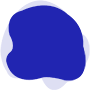
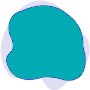
Edits for style

diff --git a/index.html b/index.html
@@ -44,7 +44,7 @@
 
 
         <!-- Navbar & Hero Start -->
-        <div class="container-xxl position-relative p-0">
+        <div class="container-xxl position-relative p-0 bg-green">
             <nav class="navbar navbar-expand-lg navbar-light px-4 px-lg-5 py-3 py-lg-0">
                 <a href="" class="navbar-brand p-0">
                     <h1 class="m-0">Best Sources IT</h1>
@@ -116,12 +116,12 @@
                         <p class="mb-4">Because your website is unique, we take the time to learn about the objectives you want to achieve. We research your needs, brand, and corporate identity before deciding on the best strategy for online success.</p>
                         <div class="row g-3">
                             <div class="col-sm-6">
-                                <h6 class="mb-3"><i class="fa text-white fa-check me-2"></i>Customer Focused</h6>
-                                <h6 class="mb-0"><i class="fa text-white fa-check me-2"></i>Professional Staff</h6>
+                                <h6 class="mb-3"><i class="fa green fa-check me-2"></i>Customer Focused</h6>
+                                <h6 class="mb-0"><i class="fa green fa-check me-2"></i>Professional Staff</h6>
                             </div>
                             <div class="col-sm-6">
-                                <h6 class="mb-3"><i class="fa fa-check text-white me-2"></i>24/7 Support</h6>
-                                <h6 class="mb-0"><i class="fa fa-check text-white me-2"></i>Fair Prices</h6>
+                                <h6 class="mb-3"><i class="fa green fa-check me-2"></i>24/7 Support</h6>
+                                <h6 class="mb-0"><i class="fa green fa-check me-2"></i>Fair Prices</h6>
                             </div>
                         </div>
                         <div class="d-flex align-items-center mt-4">
@@ -142,7 +142,7 @@
 
 
         <!-- Newsletter Start -->
-        <div id="services" class="container-xxl newsletter my-5 wow fadeInUp" data-wow-delay="0.8s">
+        <div id="services" class="container-xxl newsletter my-5 wow fadeInUp bg-green" data-wow-delay="0.8s">
             <div class="container px-lg-5">
                 <div class="row align-items-center" style="height: 250px;">
                     <div class="col-12 col-md-6">
@@ -218,7 +218,7 @@
         <div id="projects" class="container-xxl py-5">
             <div class="container px-lg-5">
                 <div class="section-title position-relative text-center mb-5 pb-2 wow fadeInUp" data-wow-delay="0.1s">
-                    <h6 class="position-relative d-inline text-primary ps-4">Our Projects</h6>
+                    <h6 class="position-relative d-inline ps-4">Our Projects</h6>
                     <h2 class="mt-2">Recently Launched Projects</h2>
                 </div>
                 <div class="row mt-n2 wow fadeInUp" data-wow-delay="0.1s">
@@ -233,11 +233,11 @@
                     </div>
                 </div>
                 <div class="row g-4 portfolio-container">
-                    <div class="col-lg-4 col-md-6 portfolio-item first wow zoomIn" data-wow-delay="0.1s">
+                    <div class="col-lg-4 col-md-6 portfolio-item first wow zoomIn" data-wow-delay="0.3s">
                         <div class="position-relative rounded overflow-hidden">
                             <img class="img-fluid w-100" src="img/Ajwd.png" alt="">
                             <div class="portfolio-overlay">
-                                <a class="btn btn-light" href="https://ajwddates.com/" data-lightbox="portfolio"><i class="fa fa-plus fa-2x text-primary"></i></a>
+                                <!-- <a class="btn btn-light" href="https://ajwddates.com/"><i class="fa fa-plus fa-2x text-primary"></i></a> -->
                                 <div class="mt-auto">
                                     <small class="text-white">Web Design</small>
                                     <a class="h5 d-block text-white mt-1 mb-0" href="https://ajwddates.com/">Best Sources for Dates</a>
@@ -247,11 +247,11 @@
                     </div>
                     <div class="col-lg-4 col-md-6 portfolio-item second wow zoomIn" data-wow-delay="0.3s">
                         <div class="position-relative rounded overflow-hidden">
-                            <img class="img-fluid w-100" src="img/Arabian.png" alt="">
+                            <img class="img-fluid w-100 h-100" src="img/Arabian.png" alt="">
                             <div class="portfolio-overlay">
-                                <a class="btn btn-light" href="https://ajwad.mystrikingly.com/" data-lightbox="portfolio"><i class="fa fa-plus fa-2x text-primary"></i></a>
+                                <!-- <a class="btn btn-light" href="https://ajwad.mystrikingly.com/" data-lightbox="portfolio"><i class="fa fa-plus fa-2x text-primary"></i></a> -->
                                 <div class="mt-auto">
-                                    <small class="text-white">Web Design</small>
+                                    <small class="text-white">Web Development</small>
                                     <a class="h5 d-block text-white mt-1 mb-0" href="https://ajwad.mystrikingly.com/">Finest Arabian Dates</a>
                                 </div>
                             </div>
@@ -364,74 +364,8 @@
         </div> -->
         <!-- Testimonial End -->
 
-
-        <!-- Team Start -->
-        <!-- <div class="container-xxl py-5">
-            <div class="container px-lg-5">
-                <div class="section-title position-relative text-center mb-5 pb-2 wow fadeInUp" data-wow-delay="0.1s">
-                    <h6 class="position-relative d-inline text-primary ps-4">Our Team</h6>
-                    <h2 class="mt-2">Meet Our Team Members</h2>
-                </div>
-                <div class="row g-4">
-                    <div class="col-lg-4 col-md-6 wow fadeInUp" data-wow-delay="0.1s">
-                        <div class="team-item">
-                            <div class="d-flex">
-                                <div class="flex-shrink-0 d-flex flex-column align-items-center mt-4 pt-5" style="width: 75px;">
-                                    <a class="btn btn-square text-primary bg-white my-1" href=""><i class="fab fa-facebook-f"></i></a>
-                                    <a class="btn btn-square text-primary bg-white my-1" href=""><i class="fab fa-twitter"></i></a>
-                                    <a class="btn btn-square text-primary bg-white my-1" href=""><i class="fab fa-instagram"></i></a>
-                                    <a class="btn btn-square text-primary bg-white my-1" href=""><i class="fab fa-linkedin-in"></i></a>
-                                </div>
-                                <img class="img-fluid rounded w-100" src="img/team-1.jpg" alt="">
-                            </div>
-                            <div class="px-4 py-3">
-                                <h5 class="fw-bold m-0">Jhon Doe</h5>
-                                <small>CEO</small>
-                            </div>
-                        </div>
-                    </div>
-                    <div class="col-lg-4 col-md-6 wow fadeInUp" data-wow-delay="0.3s">
-                        <div class="team-item">
-                            <div class="d-flex">
-                                <div class="flex-shrink-0 d-flex flex-column align-items-center mt-4 pt-5" style="width: 75px;">
-                                    <a class="btn btn-square text-primary bg-white my-1" href=""><i class="fab fa-facebook-f"></i></a>
-                                    <a class="btn btn-square text-primary bg-white my-1" href=""><i class="fab fa-twitter"></i></a>
-                                    <a class="btn btn-square text-primary bg-white my-1" href=""><i class="fab fa-instagram"></i></a>
-                                    <a class="btn btn-square text-primary bg-white my-1" href=""><i class="fab fa-linkedin-in"></i></a>
-                                </div>
-                                <img class="img-fluid rounded w-100" src="img/team-2.jpg" alt="">
-                            </div>
-                            <div class="px-4 py-3">
-                                <h5 class="fw-bold m-0">Emma William</h5>
-                                <small>Manager</small>
-                            </div>
-                        </div>
-                    </div>
-                    <div class="col-lg-4 col-md-6 wow fadeInUp" data-wow-delay="0.6s">
-                        <div class="team-item">
-                            <div class="d-flex">
-                                <div class="flex-shrink-0 d-flex flex-column align-items-center mt-4 pt-5" style="width: 75px;">
-                                    <a class="btn btn-square text-primary bg-white my-1" href=""><i class="fab fa-facebook-f"></i></a>
-                                    <a class="btn btn-square text-primary bg-white my-1" href=""><i class="fab fa-twitter"></i></a>
-                                    <a class="btn btn-square text-primary bg-white my-1" href=""><i class="fab fa-instagram"></i></a>
-                                    <a class="btn btn-square text-primary bg-white my-1" href=""><i class="fab fa-linkedin-in"></i></a>
-                                </div>
-                                <img class="img-fluid rounded w-100" src="img/team-3.jpg" alt="">
-                            </div>
-                            <div class="px-4 py-3">
-                                <h5 class="fw-bold m-0">Noah Michael</h5>
-                                <small>Designer</small>
-                            </div>
-                        </div>
-                    </div>
-                </div>
-            </div>
-        </div> -->
-        <!-- Team End -->
-        
-
         <!-- Footer Start -->
-        <div id="contact" class="container-fluid bg-primary text-light footer mt-5 pt-5 wow fadeIn" data-wow-delay="0.1s">
+        <div id="contact" class="container-fluid bg-green text-light footer mt-5 pt-5 wow fadeIn" data-wow-delay="0.1s">
             <div class="container py-5 px-lg-5">
                 <div class="row g-5">
                     <div class="col-md-6 col-lg-3">
@@ -455,11 +389,11 @@
                         <div class="col-md-6 text-center text-md-start mb-3 mb-md-0">
                             &copy; Best Sources Information Technology, All Rights Reserved. 
                         </div>
-                        <div class="col-md-6 text-center text-md-start mb-3 mb-md-0" style="color: #2124B1;">
+                        <div class="col-md-6 text-center text-md-start mb-3 mb-md-0" style="color: #00ABB3;">
 							
 							<!--/*** This template is free as long as you keep the footer author’s credit link/attribution link/backlink. If you'd like to use the template without the footer author’s credit link/attribution link/backlink, you can purchase the Credit Removal License from "https://htmlcodex.com/credit-removal". Thank you for your support. ***/-->
-							Designed By <a href="https://htmlcodex.com" style="color: #2124B1;">HTML Codex</a>
-                            <br>Distributed By: <a href="https://themewagon.com" style="color: #2124B1;" target="_blank">ThemeWagon</a>
+							Designed By <a href="https://htmlcodex.com" style="color: #00ABB3;">HTML Codex</a>
+                            <br>Distributed By: <a href="https://themewagon.com" style="color: #00ABB3;" target="_blank">ThemeWagon</a>
                         </div>
                     </div>
                 </div>

diff --git a/css/style.css b/css/style.css
@@ -6,10 +6,20 @@
     --dark: #1D1D27;
 }
 
-.container-xxl, .btn {
+/* .container-xxl, .btn {
     background-color: #00ABB3 !important;
     color: white;
     border-color: white;
+} */
+
+.bg-green, .btn {
+    background-color: var(--primary) !important;
+    color: var(--light) !important;
+    border-color: var(--light) !important;
+}
+
+.green {
+    color: var(--primary) !important;
 }
 
 .btn-square:hover {
@@ -278,8 +288,8 @@ h6,
     display: flex;
     align-items: center;
     justify-content: center;
-    color: var(--light);
-    background: url(../img/icon-shape-primary.png) center center no-repeat;
+    color: var(--primary);
+    /* background: url(../img/icon-shape-primary.png) center center no-repeat; */
     transition: .5s;
 }
 
